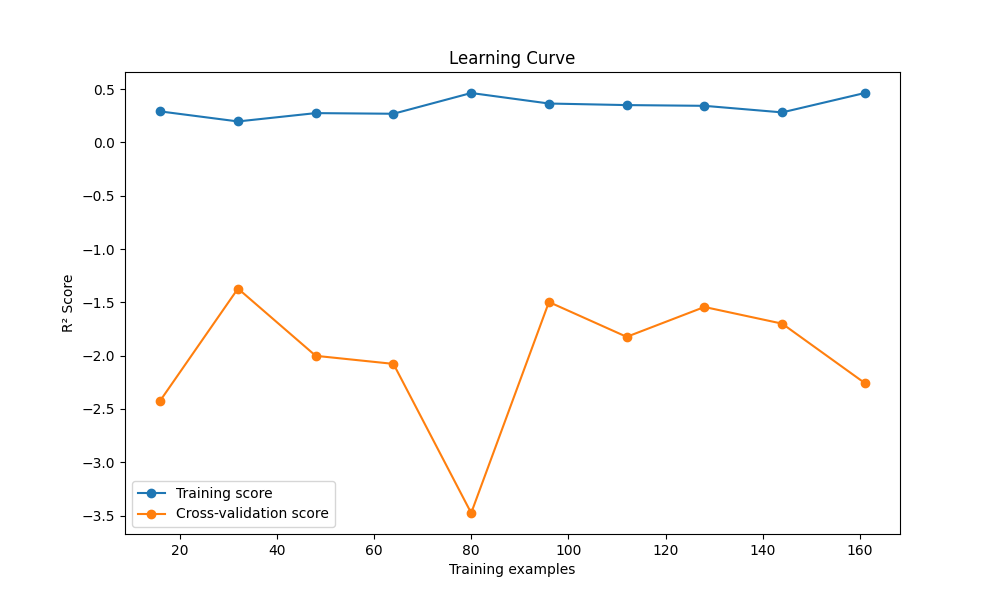
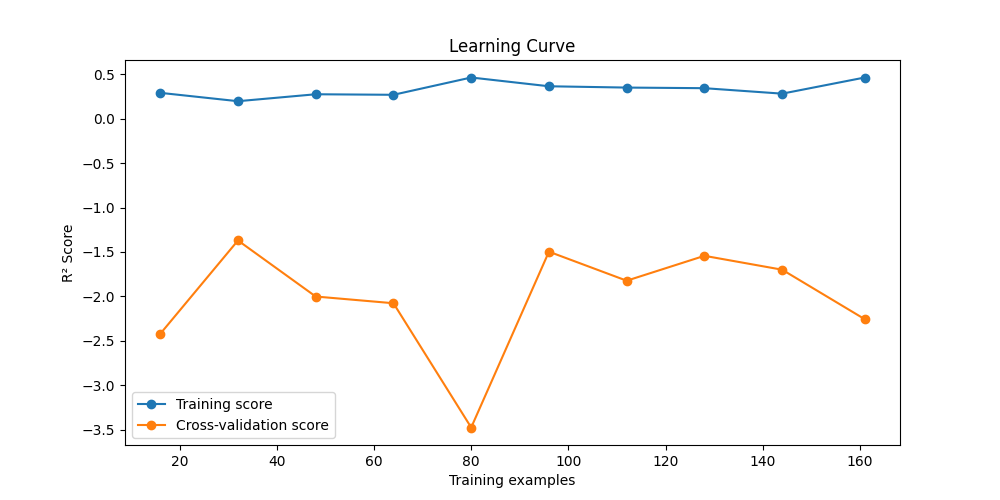
commit

diff --git a/model-training.py b/model-training.py
@@ -12,7 +12,6 @@ import pickle
 import os
 
 try:
-    # Loading
     data_path = 'music_dataset.csv'
     df = pd.read_csv(data_path)
     
@@ -21,18 +20,15 @@ try:
     print(df.info())
     print("\nDataset Statistics:")
     print(df.describe())
-    
-    # duplicates
     duplicates = df.duplicated().sum()
     print(f"\nNumber of duplicate records: {duplicates}")
     
-    plt.figure(figsize=(8, 6))
+    plt.figure(figsize=(10, 5))
     sns.histplot(df['popularity'])
     plt.title('Distribution of Popularity Scores')
     plt.savefig('assets\popularity_distribution.png')
     plt.close()
     
-    # Cleaning and Removing missing values
     initial_rows = df.shape[0]
     df.dropna(inplace=True)
     print(f"\nRemoved {initial_rows - df.shape[0]} rows with missing values")
@@ -53,7 +49,7 @@ try:
         pickle.dump(scaler, f)
     
     numeric_df = df.select_dtypes(include=[np.number])
-    plt.figure(figsize=(12, 10))
+    plt.figure(figsize=(10, 5))
     sns.heatmap(numeric_df.corr(), annot=True, fmt=".2f", cmap='coolwarm')
     plt.title('Feature Correlation Matrix')
     plt.tight_layout()
@@ -114,7 +110,6 @@ try:
     
     print(f"Best parameters: {grid_search.best_params_}")
     
-    # Train model
     best_model = grid_search.best_estimator_
     best_model.fit(X_train, y_train)
     
@@ -135,7 +130,7 @@ try:
     train_sizes, train_scores, test_scores = learning_curve(
         best_model, X, y, cv=5, scoring='r2', train_sizes=np.linspace(0.1, 1.0, 10))
     
-    plt.figure(figsize=(10, 6))
+    plt.figure(figsize=(10, 5))
     plt.plot(train_sizes, train_scores.mean(axis=1), 'o-', label='Training score')
     plt.plot(train_sizes, test_scores.mean(axis=1), 'o-', label='Cross-validation score')
     plt.xlabel('Training examples')
@@ -151,7 +146,7 @@ try:
     })
     coef_df = coef_df.sort_values('Coefficient', key=abs, ascending=False)
     
-    plt.figure(figsize=(12, 8))
+    plt.figure(figsize=(10, 5))
     sns.barplot(x='Coefficient', y='Feature', data=coef_df.head(15))
     plt.title('Top 15 Feature Coefficients')
     plt.tight_layout()
@@ -160,7 +155,7 @@ try:
     
     residuals = y_test - y_pred_best
     
-    plt.figure(figsize=(12, 6))
+    plt.figure(figsize=(10, 5))
     plt.subplot(1, 2, 1)
     plt.scatter(y_pred_best, residuals)
     plt.axhline(y=0, color='r', linestyle='-')
@@ -178,27 +173,7 @@ try:
     with open('model.pkl', 'wb') as f:
         pickle.dump(best_model, f)
     
-    # prediction function
     def predict_popularity(model_path, scaler_path, feature_path, new_data):
-        """
-        Make predictions on new music data
-        
-        Parameters:
-        -----------
-        model_path : str
-            Path to the saved model file
-        scaler_path : str
-            Path to the saved scaler file
-        feature_path : str
-            Path to the saved feature names file
-        new_data : dict
-            Dictionary containing music attributes
-            
-        Returns:
-        --------
-        float
-            Predicted popularity score
-        """
         with open(model_path, 'rb') as f:
             model = pickle.load(f)
         
